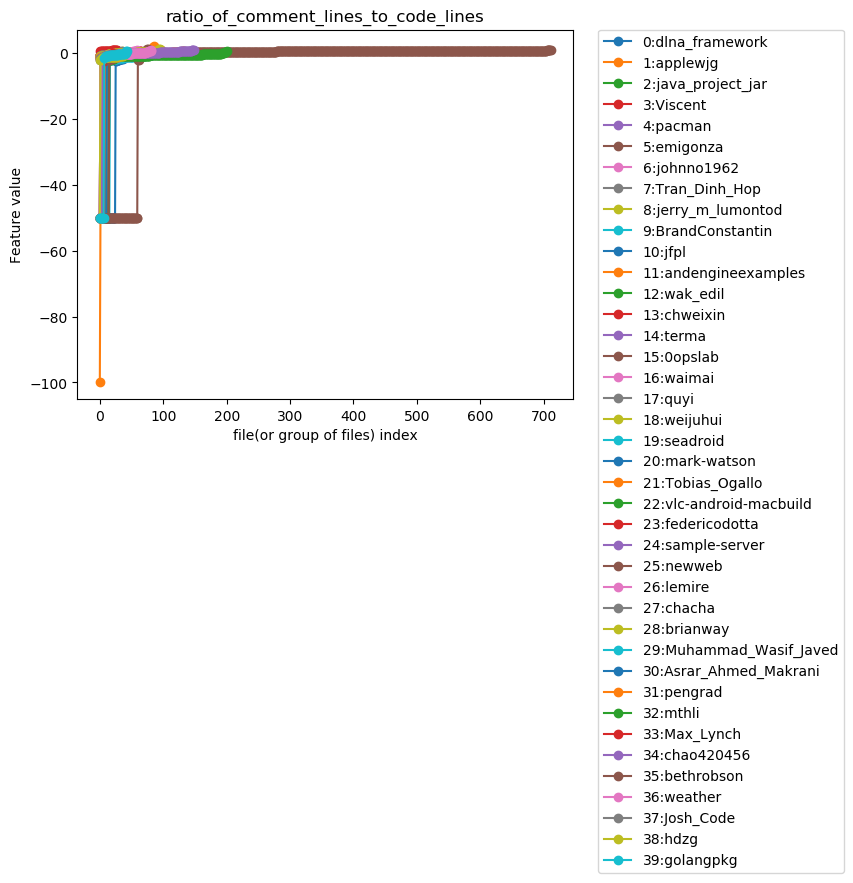
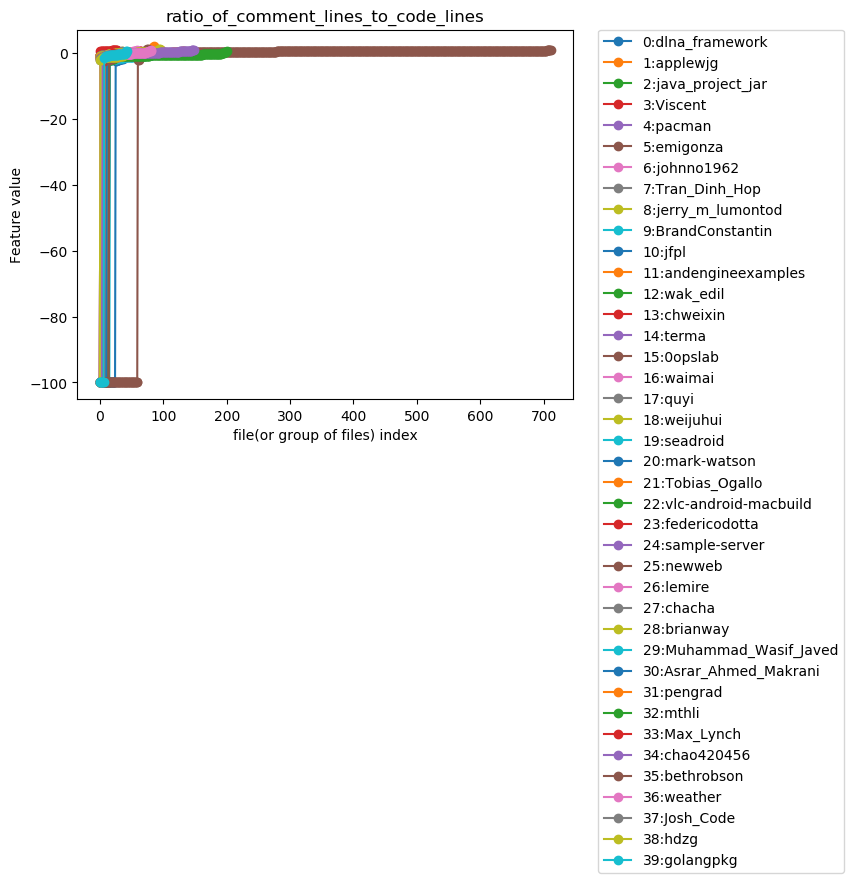
Removed 5th metric and acc is still about 40%. So logs from all out of [0; 1] metrics is probably bad idea.

Changed region(s): [[0.0914, 0.1529, 0.1829, 0.4587]]

diff --git a/psob_authorship/features/utils.py b/psob_authorship/features/utils.py
@@ -52,8 +52,8 @@ def divide_ratio_with_handling_zero_division(numerator, denominator, logger: log
 
 
 def divide_nonnegative_with_handling_zero_division(numerator, denominator, logger: logging.Logger,
-                                                   log_information, take_log10=True, log_from_zero=-50.0,
-                                                   zero_division_return=-100.0):
+                                                   log_information, take_log10=True, log_from_zero=-100.0,
+                                                   zero_division_return=-1.0):
     result = divide_with_handling_zero_division(numerator, denominator, logger,
                                                 log_information, (0, float("inf")), zero_division_return)
     if result == zero_division_return:

diff --git a/psob_authorship/experiment/one_split_fit.py b/psob_authorship/experiment/one_split_fit.py
@@ -13,10 +13,11 @@ from psob_authorship.model.Model import Model
 
 CONFIG = {
     'experiment_name': os.path.basename(__file__).split('.')[0],
-    'experiment_notes': "change: log10(0) = -50, a / 0 = -100",
+    'experiment_notes': "change: returned to previous config, now erased 5th metric to see if log10 does not make "
+                        "worse other metrics",
     'number_of_authors': 40,
     'labels_features_common_name': "../calculated_features/extracted_for_each_file",
-    'metrics': [i for i in range(19)],
+    'metrics': [0, 1, 2, 3, 4, 6, 7, 8, 9, 10, 11, 12, 13, 14, 15, 16, 17, 18],
     'epochs': 5000,
     'batch_size': 32,
     'early_stopping_rounds': 350,
